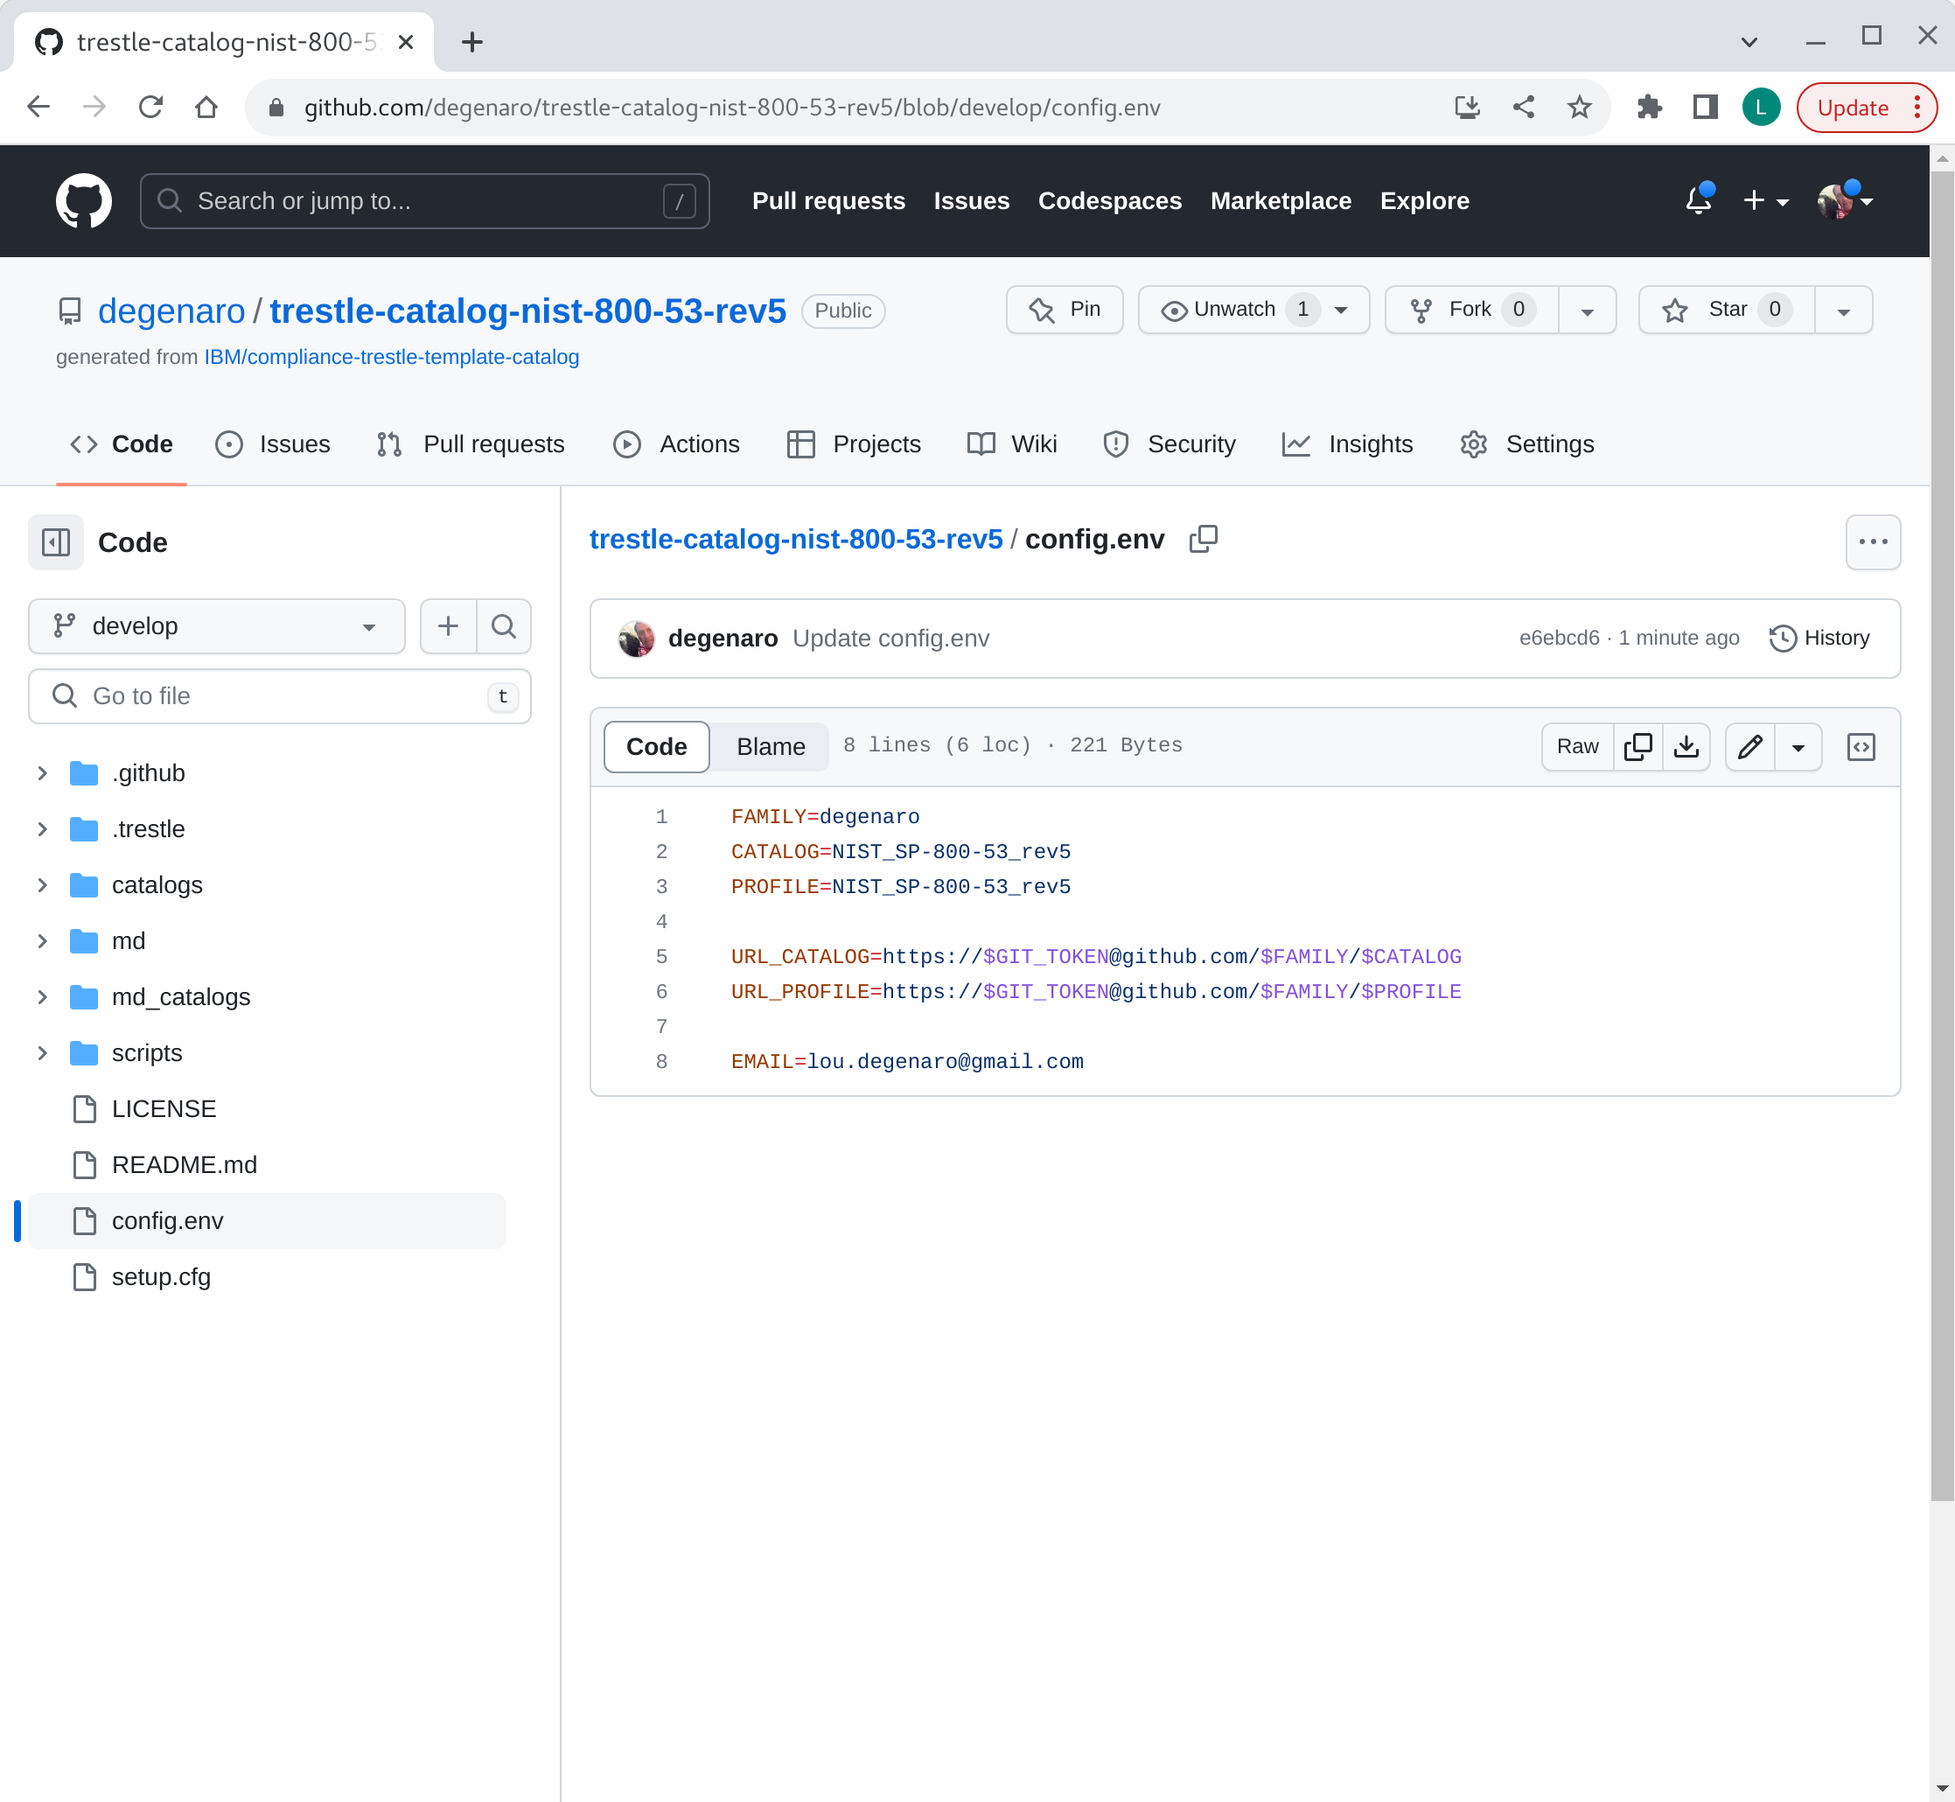
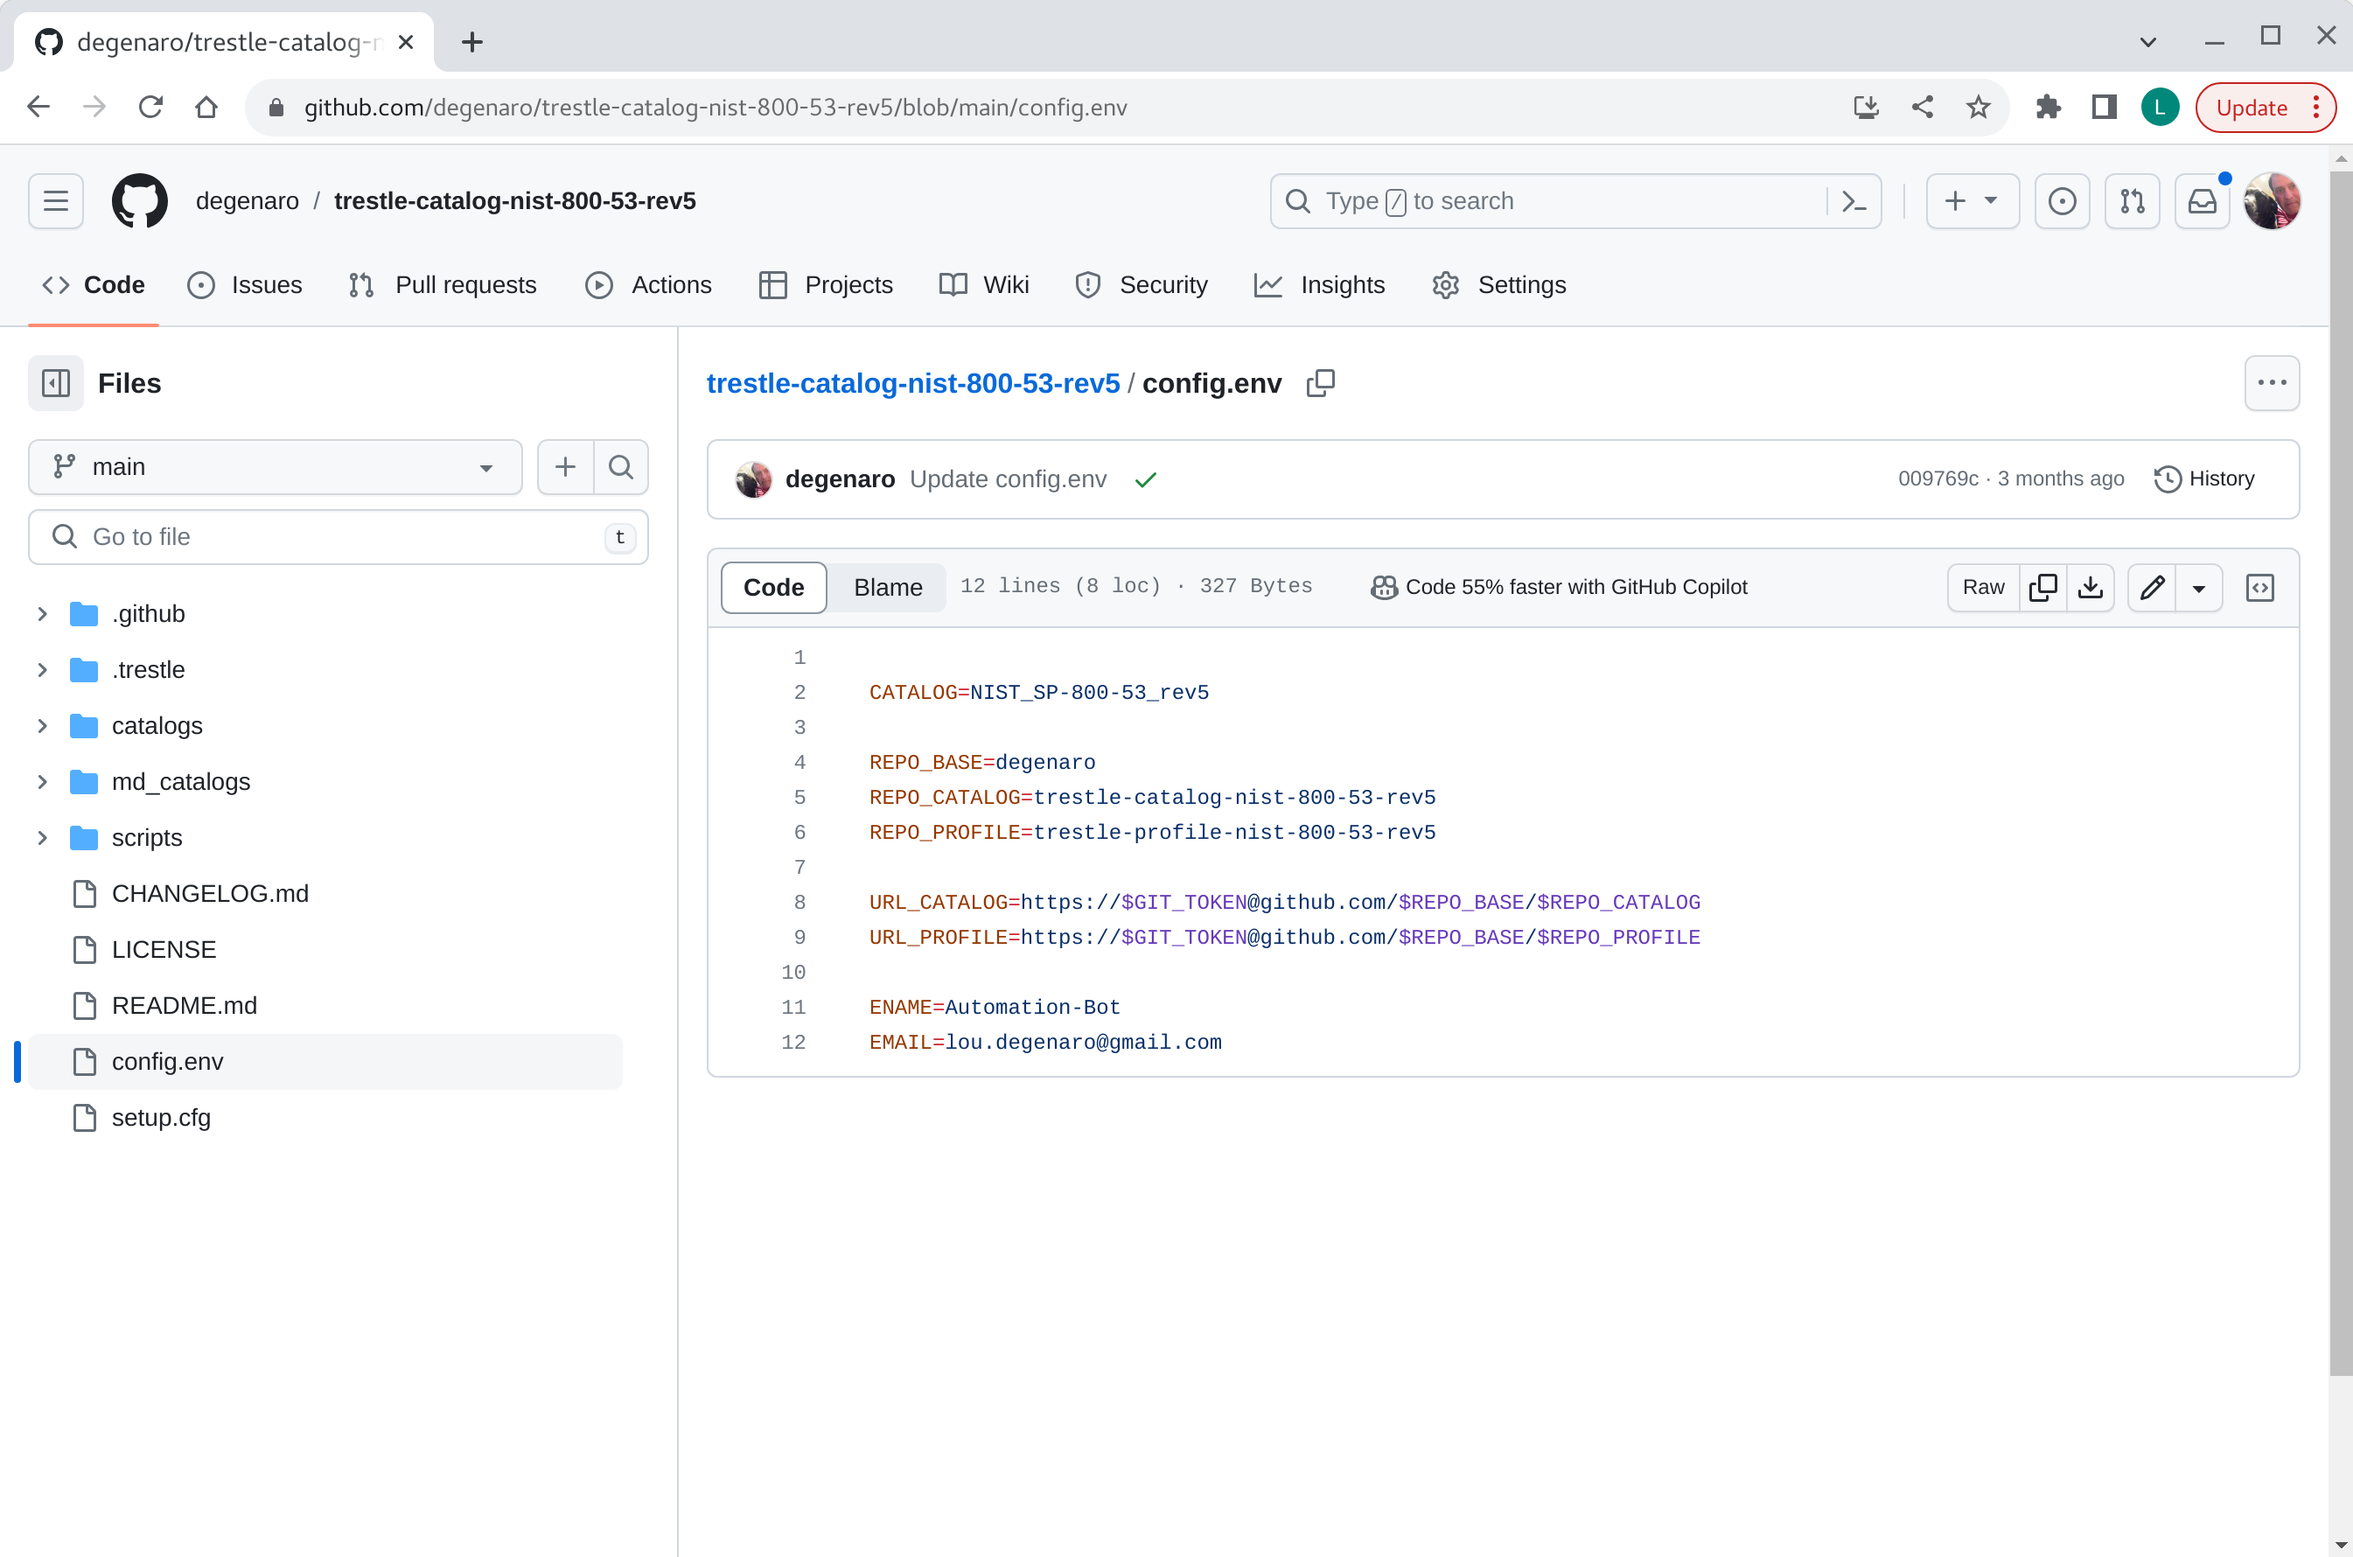
profile thru step 5

diff --git a/README.create-repo-profile.md b/README.create-repo-profile.md
@@ -2,6 +2,10 @@
 
 Instructions for setting up trestle agile authoring GIT repository for OSCAL `profile` document.
 
+###### 0. prerequisites
+
+- create GitHub [token](README.md#prerequisites)
+
 ###### 1. profile repo creation
 
 Create your `profile` repo from the agile authoring template.
@@ -40,3 +44,84 @@ Add branch "develop".
 </details>
 
 -----
+
+###### 3. customize the profile repo settings
+
+Install token (from prereqs above) in your newly created `trestle-profile-nist-800-53-rev5` repo.
+Navigate to the newly created `trestle-profile-nist-800-53-rev5` repo, then use path:
+
+*Settings -> Secrets and variables -> Actions -> New repository secret*
+
+Add repository secret name GIT_TOKEN, and specify your token value.
+See [prerequisites](README.md#Prerequisites) for token requirements.
+
+*-> New repository secret*
+
+*-> Add secret*
+
+<details>
+<summary>visual</summary>
+<img src="images/profile.add-token.png" width="500" height="600">
+</details>
+
+-----
+
+###### 4. customize the profile automation scripts (develop branch)
+
+Navigate to the newly created `trestle-profile-nist-800-53-rev5` repo, then edit:
+
+*-> select file:* config.env
+
+*-> edit (pencil on right)*
+Update the variables:
+
+- PROFILE: is the folder name containing the profile in the profiles folder (e.g. `NIST_SP-800-53_rev5` of profiles/`NIST_SP-800-53_rev5`/profile.json)
+
+- REPO_BASE: is the `base` part of the URL (e.g. `degenaro` of https://github.com/`degenaro`/trestle-profile-nist-800-53-rev5)
+
+- REPO_PROFILE is the part of the URL for the profile under the base (e.g. `trestle-profile-nist-800-53-rev5` of https://github.com/degenaro/`trestle-profile-nist-800-53-rev5`)
+- REPO_COMPONENT_DEFINITION is the part of the URL for the component-definition under the base (e.g. `trestle-component-definition-my-gizmo` of https://github.com/degenaro/`trestle-component-definition-my-gizmo`)
+
+- ENAME is the name of the committer
+- EMAIL is the e-mail address to receive notifications
+
+Example:
+
+- PROFILE=*NIST_SP-800-53_rev5*
+
+- REPO_BASE=*degenaro*
+
+- REPO_PROFILE=*trestle-profile-nist-800-53-rev5*
+- REPO_COMPONENT_DEFINITION=*trestle-component-definition-my-gizmo*
+
+- URL_PROFILE=https://$GIT_TOKEN@github.com/$REPO_BASE/$REPO_PROFILE
+- URL_COMPONENT_DEFINITION=https://$GIT_TOKEN@github.com/$REPO_BASE/$REPO_COMPONENT_DEFINITION
+
+- ENAME=*Automation-Bot*
+- EMAIL=*lou.degenaro@gmail.com*
+
+*-> Commit changes*
+
+<details>
+<summary>visual</summary>
+<img src="images/profile.update-config.env.png" width="500" height="600">
+</details>
+
+-----
+
+###### 5. customize the profile automation yml (develop branch)
+
+*-> select file:* .github/workflows/main-push.yml
+*-> edit (pencil on right)*
+Locate these lines:
+
+- repository: my-repo-base/my-profile
+- path: './my-profile'
+
+change to:
+
+- repository: degenaro/trestle-component-definition-my-gizmo
+- path: './trestle-component-definition-my-gizmo'
+
+*-> Commit changes*
+
